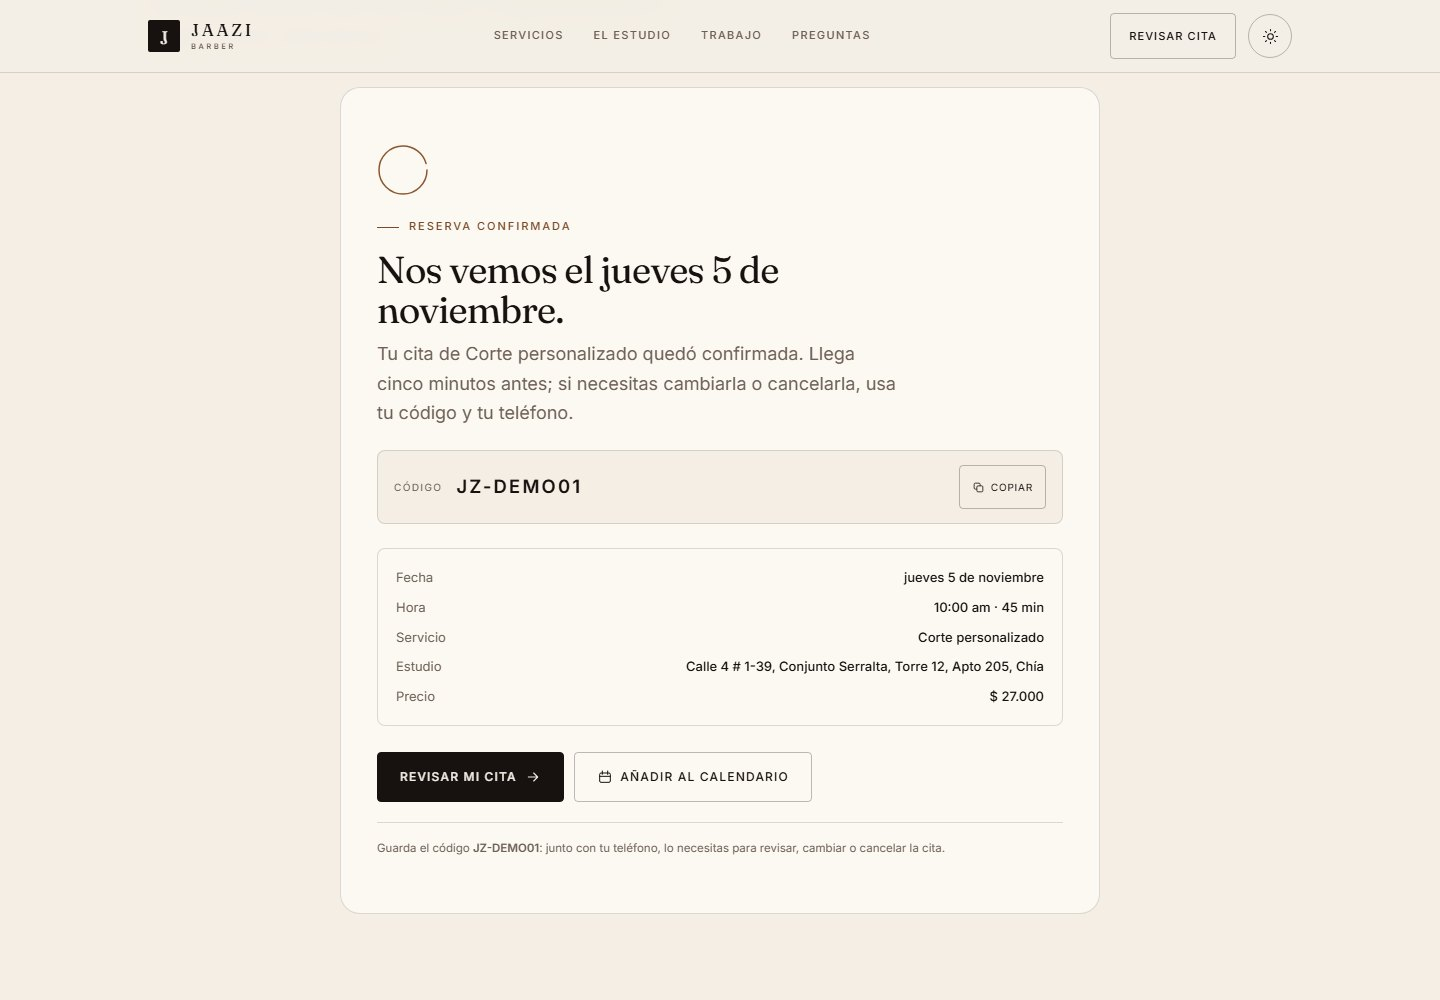
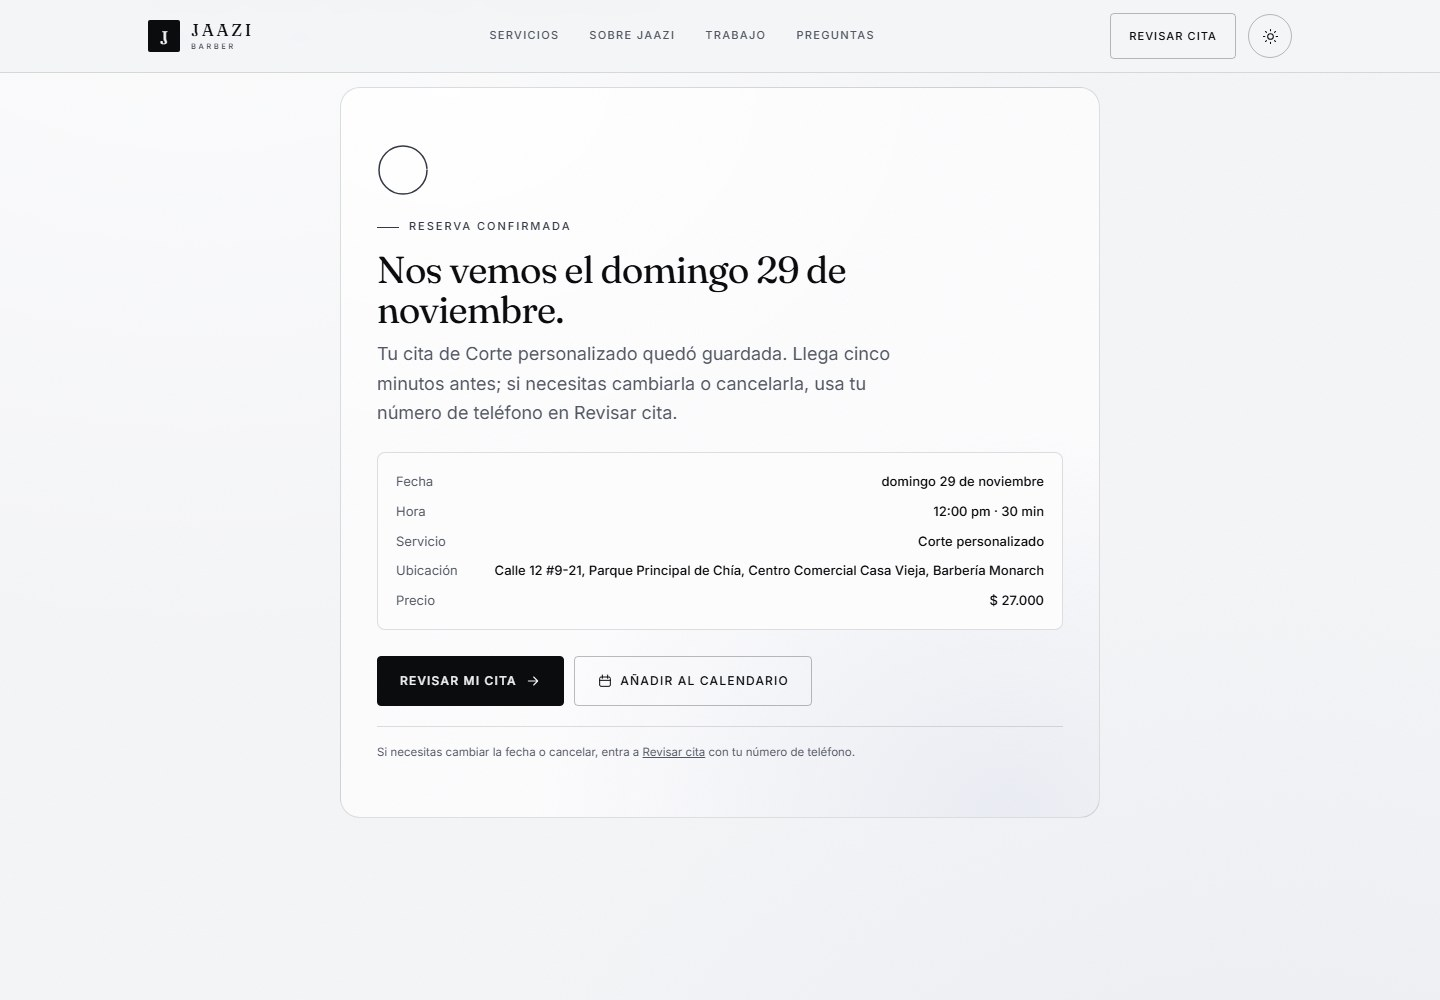
Actualiza capturas de documentación con nuevo diseño y consulta por teléfono

diff --git a/README.md b/README.md
@@ -59,11 +59,11 @@ Proyecto real, de principio a fin y sin equipo:
 
 | Paso 3 · Datos | Confirmación |
 |---|---|
-| ![Reserva, paso 3: datos del cliente](docs/shot-booking-form.jpg) | ![Confirmación con código de cita](docs/shot-booking-confirmation.jpg) |
+| ![Reserva, paso 3: datos del cliente](docs/shot-booking-form.jpg) | ![Confirmación de cita](docs/shot-booking-confirmation.jpg) |
 
 | Revisar cita | Cambiar fecha y hora |
 |---|---|
-| ![Revisar cita con código y teléfono](docs/shot-review.jpg) | ![Editor para cambiar fecha y hora](docs/shot-reschedule.jpg) |
+| ![Revisar cita solo con teléfono](docs/shot-review.jpg) | ![Editor para cambiar fecha y hora](docs/shot-reschedule.jpg) |
 
 | Panel en móvil | Reserva en móvil |
 |---|---|
